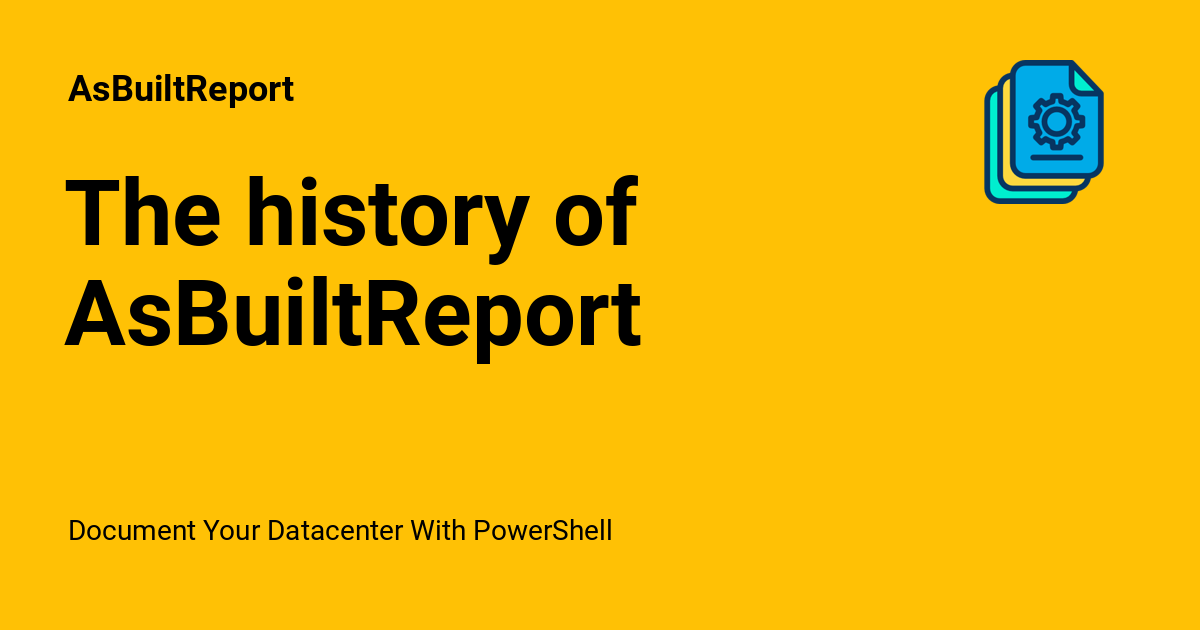
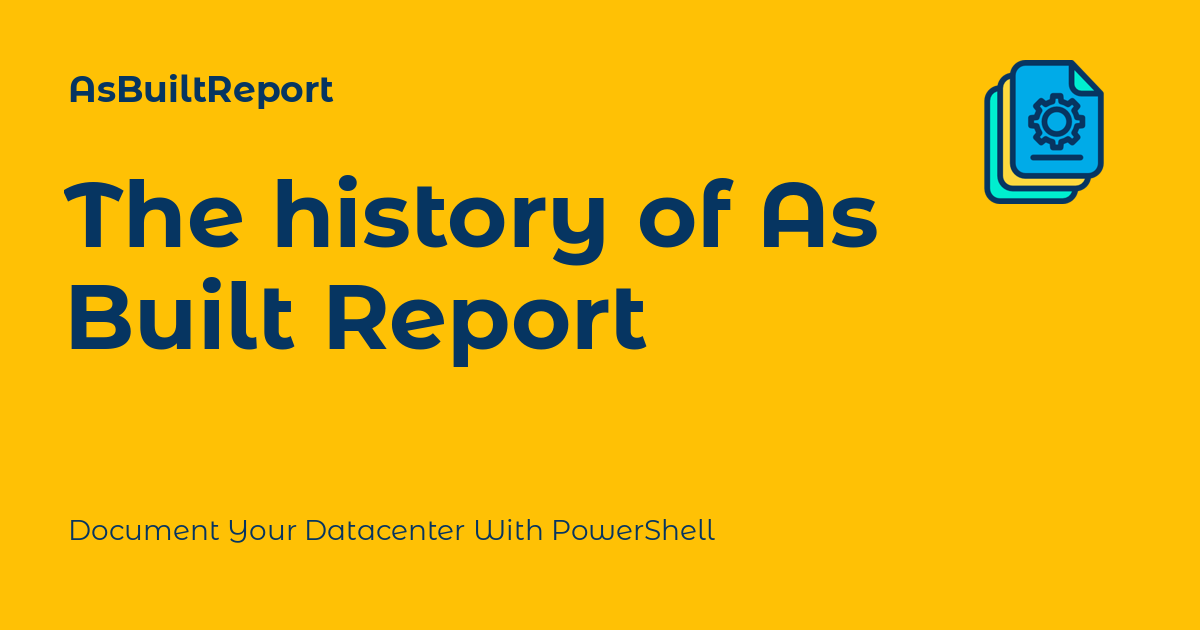
Deployed 215a44a with MkDocs version: 1.5.2

diff --git a/support/faq/index.html b/support/faq/index.html
@@ -118,7 +118,7 @@
     <div data-md-component="skip">
       
         
-        <a href="#what-is-asbuiltreport" class="md-skip">
+        <a href="#what-is-as-built-report" class="md-skip">
           Skip to content
         </a>
       
@@ -1902,8 +1902,8 @@
     <ul class="md-nav__list" data-md-component="toc" data-md-scrollfix>
       
         <li class="md-nav__item">
-  <a href="#what-is-asbuiltreport" class="md-nav__link">
-    What is AsBuiltReport?
+  <a href="#what-is-as-built-report" class="md-nav__link">
+    What is As Built Report?
   </a>
   
 </li>
@@ -1937,8 +1937,8 @@
 </li>
       
         <li class="md-nav__item">
-  <a href="#how-do-i-install-asbuiltreport-if-i-do-not-have-access-to-powershell-gallery" class="md-nav__link">
-    How do I install AsBuiltReport if I do not have access to PowerShell Gallery?
+  <a href="#how-do-i-install-as-built-report-if-i-do-not-have-access-to-powershell-gallery" class="md-nav__link">
+    How do I install As Built Report if I do not have access to PowerShell Gallery?
   </a>
   
 </li>
@@ -2156,8 +2156,8 @@
     <ul class="md-nav__list" data-md-component="toc" data-md-scrollfix>
       
         <li class="md-nav__item">
-  <a href="#what-is-asbuiltreport" class="md-nav__link">
-    What is AsBuiltReport?
+  <a href="#what-is-as-built-report" class="md-nav__link">
+    What is As Built Report?
   </a>
   
 </li>
@@ -2191,8 +2191,8 @@
 </li>
       
         <li class="md-nav__item">
-  <a href="#how-do-i-install-asbuiltreport-if-i-do-not-have-access-to-powershell-gallery" class="md-nav__link">
-    How do I install AsBuiltReport if I do not have access to PowerShell Gallery?
+  <a href="#how-do-i-install-as-built-report-if-i-do-not-have-access-to-powershell-gallery" class="md-nav__link">
+    How do I install As Built Report if I do not have access to PowerShell Gallery?
   </a>
   
 </li>
@@ -2237,13 +2237,13 @@
 
 <ol>
 <li>
-<h4 id="what-is-asbuiltreport">What is AsBuiltReport?</h4>
+<h4 id="what-is-as-built-report">What is As Built Report?</h4>
 <p>As Built Report is an open source configuration document framework which utilises Microsoft PowerShell to produce as-built documentation in multiple document formats for multiple vendors and technologies.</p>
 <p>The framework allows users to easily generate clear and consistent documentation, for any environment which supports Microsoft PowerShell and/or a RESTful API.</p>
 </li>
 <li>
 <h4 id="what-versions-of-powershell-are-supported">What versions of PowerShell are supported?</h4>
-<p>AsBuiltReport will generally support both Windows PowerShell 5.1 and PowerShell 7, however each individual report will have its own system requirements.</p>
+<p>As Built Report will generally support both Windows PowerShell 5.1 and PowerShell 7, however each individual report will have its own system requirements.</p>
 <p>Please refer to the <a href="../../user-guide/report-modules/overview/">report module user guides</a> for PowerShell compatibility and system requirements.</p>
 </li>
 <li>
@@ -2260,8 +2260,8 @@
 <p>No. Microsoft Word is not required to generate the report, however a document viewer which supports the DOCX format would be required to view the report.</p>
 </li>
 <li>
-<h4 id="how-do-i-install-asbuiltreport-if-i-do-not-have-access-to-powershell-gallery">How do I install AsBuiltReport if I do not have access to PowerShell Gallery?</h4>
-<p>Please refer to the <a href="../../getting-started/installation/">installation</a> page for instructions on how to perform an offline installation of AsBuiltReport.</p>
+<h4 id="how-do-i-install-as-built-report-if-i-do-not-have-access-to-powershell-gallery">How do I install As Built Report if I do not have access to PowerShell Gallery?</h4>
+<p>Please refer to the <a href="../../getting-started/installation/">installation</a> page for instructions on how to perform an offline installation of As Built Report.</p>
 </li>
 <li>
 <h4 id="how-can-i-contribute-to-the-project">How can I contribute to the project?</h4>

diff --git a/blog/2023/08/25/the-history-of-as-built-report/index.html b/blog/2023/08/25/the-history-of-as-built-report/index.html
@@ -12,7 +12,7 @@
         <meta name="author" content="Tim Carman">
       
       
-        <link rel="canonical" href="https://www.asbuiltreport.com/blog/2023/08/25/the-history-of-asbuiltreport/">
+        <link rel="canonical" href="https://www.asbuiltreport.com/blog/2023/08/25/the-history-of-as-built-report/">
       
       
       
@@ -25,7 +25,7 @@
     
     
       
-        <title>The history of AsBuiltReport - AsBuiltReport</title>
+        <title>The history of As Built Report - AsBuiltReport</title>
       
     
     
@@ -72,7 +72,7 @@
       
         <meta  property="og:type"  content="website" >
       
-        <meta  property="og:title"  content="The history of AsBuiltReport - AsBuiltReport" >
+        <meta  property="og:title"  content="The history of As Built Report - AsBuiltReport" >
       
         <meta  property="og:description"  content="Document Your Datacenter With PowerShell" >
       
@@ -84,11 +84,11 @@
       
         <meta  property="og:image:height"  content="630" >
       
-        <meta  property="og:url"  content="https://www.asbuiltreport.com/blog/2023/08/25/the-history-of-asbuiltreport/" >
+        <meta  property="og:url"  content="https://www.asbuiltreport.com/blog/2023/08/25/the-history-of-as-built-report/" >
       
         <meta  name="twitter:card"  content="summary_large_image" >
       
-        <meta  name="twitter:title"  content="The history of AsBuiltReport - AsBuiltReport" >
+        <meta  name="twitter:title"  content="The history of As Built Report - AsBuiltReport" >
       
         <meta  name="twitter:description"  content="Document Your Datacenter With PowerShell" >
       
@@ -114,7 +114,7 @@
     <div data-md-component="skip">
       
         
-        <a href="#the-history-of-asbuiltreport" class="md-skip">
+        <a href="#the-history-of-as-built-report" class="md-skip">
           Skip to content
         </a>
       
@@ -149,7 +149,7 @@
         <div class="md-header__topic" data-md-component="header-topic">
           <span class="md-ellipsis">
             
-              The history of AsBuiltReport
+              The history of As Built Report
             
           </span>
         </div>
@@ -2139,7 +2139,7 @@
         
 
 
-<h1 id="the-history-of-asbuiltreport">The history of AsBuiltReport</h1>
+<h1 id="the-history-of-as-built-report">The history of As Built Report</h1>
 <p>Back in 2017, having worked on designing and implementing VMware solutions for almost a decade, I became frustrated with having to repeatedly produce as-built documentation for my virtualisation projects.</p>
 <p>At the time, I was designing and implementing 2-3 VMware solutions per month. Each solution would be designed using numerous technology partners, each with their own range of compute, storage, networking and backup technologies.</p>
 <p>My methods to create as-built documentation was arduous, time consuming and error prone. It often involved extracting information using a combination of vendor supplied tools and community developed scripts, and manually transposing information from the vCenter console into a Word document. It was tedious and often resulted in a poorly constructed and formatted document.</p>

diff --git a/blog/archive/2023/index.html b/blog/archive/2023/index.html
@@ -2111,7 +2111,7 @@
     </div>
   </header>
   <div class="md-post__content md-typeset">
-    <h2 id="the-history-of-asbuiltreport"><a class="toclink" href="../../2023/08/25/the-history-of-asbuiltreport/">The history of AsBuiltReport</a></h2>
+    <h2 id="the-history-of-as-built-report"><a class="toclink" href="../../2023/08/25/the-history-of-as-built-report/">The history of As Built Report</a></h2>
 <p>Back in 2017, having worked on designing and implementing VMware solutions for almost a decade, I became frustrated with having to repeatedly produce as-built documentation for my virtualisation projects.</p>
 <p>At the time, I was designing and implementing 2-3 VMware solutions per month. Each solution would be designed using numerous technology partners, each with their own range of compute, storage, networking and backup technologies.</p>
 <p>My methods to create as-built documentation was arduous, time consuming and error prone. It often involved extracting information using a combination of vendor supplied tools and community developed scripts, and manually transposing information from the vCenter console into a Word document. It was tedious and often resulted in a poorly constructed and formatted document.</p>
@@ -2119,7 +2119,7 @@
 <p>As a result, I saw this as an opportunity to learn and employ PowerShell automation to ease my pain and frustrations with producing as-built documentation. And so began my mission to create As Built Report!</p>
 
     <nav class="md-post__action">
-      <a href="../../2023/08/25/the-history-of-asbuiltreport/">
+      <a href="../../2023/08/25/the-history-of-as-built-report/">
         Continue reading
       </a>
     </nav>

diff --git a/blog/category/general/index.html b/blog/category/general/index.html
@@ -2111,7 +2111,7 @@
     </div>
   </header>
   <div class="md-post__content md-typeset">
-    <h2 id="the-history-of-asbuiltreport"><a class="toclink" href="../../2023/08/25/the-history-of-asbuiltreport/">The history of AsBuiltReport</a></h2>
+    <h2 id="the-history-of-as-built-report"><a class="toclink" href="../../2023/08/25/the-history-of-as-built-report/">The history of As Built Report</a></h2>
 <p>Back in 2017, having worked on designing and implementing VMware solutions for almost a decade, I became frustrated with having to repeatedly produce as-built documentation for my virtualisation projects.</p>
 <p>At the time, I was designing and implementing 2-3 VMware solutions per month. Each solution would be designed using numerous technology partners, each with their own range of compute, storage, networking and backup technologies.</p>
 <p>My methods to create as-built documentation was arduous, time consuming and error prone. It often involved extracting information using a combination of vendor supplied tools and community developed scripts, and manually transposing information from the vCenter console into a Word document. It was tedious and often resulted in a poorly constructed and formatted document.</p>
@@ -2119,7 +2119,7 @@
 <p>As a result, I saw this as an opportunity to learn and employ PowerShell automation to ease my pain and frustrations with producing as-built documentation. And so began my mission to create As Built Report!</p>
 
     <nav class="md-post__action">
-      <a href="../../2023/08/25/the-history-of-asbuiltreport/">
+      <a href="../../2023/08/25/the-history-of-as-built-report/">
         Continue reading
       </a>
     </nav>

diff --git a/blog/index.html b/blog/index.html
@@ -2099,7 +2099,7 @@
     </div>
   </header>
   <div class="md-post__content md-typeset">
-    <h2 id="the-history-of-asbuiltreport"><a class="toclink" href="2023/08/25/the-history-of-asbuiltreport/">The history of AsBuiltReport</a></h2>
+    <h2 id="the-history-of-as-built-report"><a class="toclink" href="2023/08/25/the-history-of-as-built-report/">The history of As Built Report</a></h2>
 <p>Back in 2017, having worked on designing and implementing VMware solutions for almost a decade, I became frustrated with having to repeatedly produce as-built documentation for my virtualisation projects.</p>
 <p>At the time, I was designing and implementing 2-3 VMware solutions per month. Each solution would be designed using numerous technology partners, each with their own range of compute, storage, networking and backup technologies.</p>
 <p>My methods to create as-built documentation was arduous, time consuming and error prone. It often involved extracting information using a combination of vendor supplied tools and community developed scripts, and manually transposing information from the vCenter console into a Word document. It was tedious and often resulted in a poorly constructed and formatted document.</p>
@@ -2107,7 +2107,7 @@
 <p>As a result, I saw this as an opportunity to learn and employ PowerShell automation to ease my pain and frustrations with producing as-built documentation. And so began my mission to create As Built Report!</p>
 
     <nav class="md-post__action">
-      <a href="2023/08/25/the-history-of-asbuiltreport/">
+      <a href="2023/08/25/the-history-of-as-built-report/">
         Continue reading
       </a>
     </nav>

diff --git a/getting-started/installation/index.html b/getting-started/installation/index.html
@@ -2220,7 +2220,7 @@
 <p>Please follow these quick and simple instructions to install As Built Report.</p>
 <h2 id="powershell">PowerShell</h2>
 <h3 id="system-requirements">System Requirements</h3>
-<p>AsBuiltReport will generally support both Windows PowerShell 5.1 and PowerShell 7, however each individual report will have its own system requirements.</p>
+<p>As Built Report will generally support both Windows PowerShell 5.1 and PowerShell 7, however each individual report will have its own system requirements.</p>
 <p>Please refer to the <a href="../../user-guide/report-modules/overview/">report module user guides</a> for PowerShell compatibility and system requirements.</p>
 <h4 id="powershell-version">PowerShell Version</h4>
 <p>Open a PowerShell console and run the following command to determine your version of PowerShell.</p>
